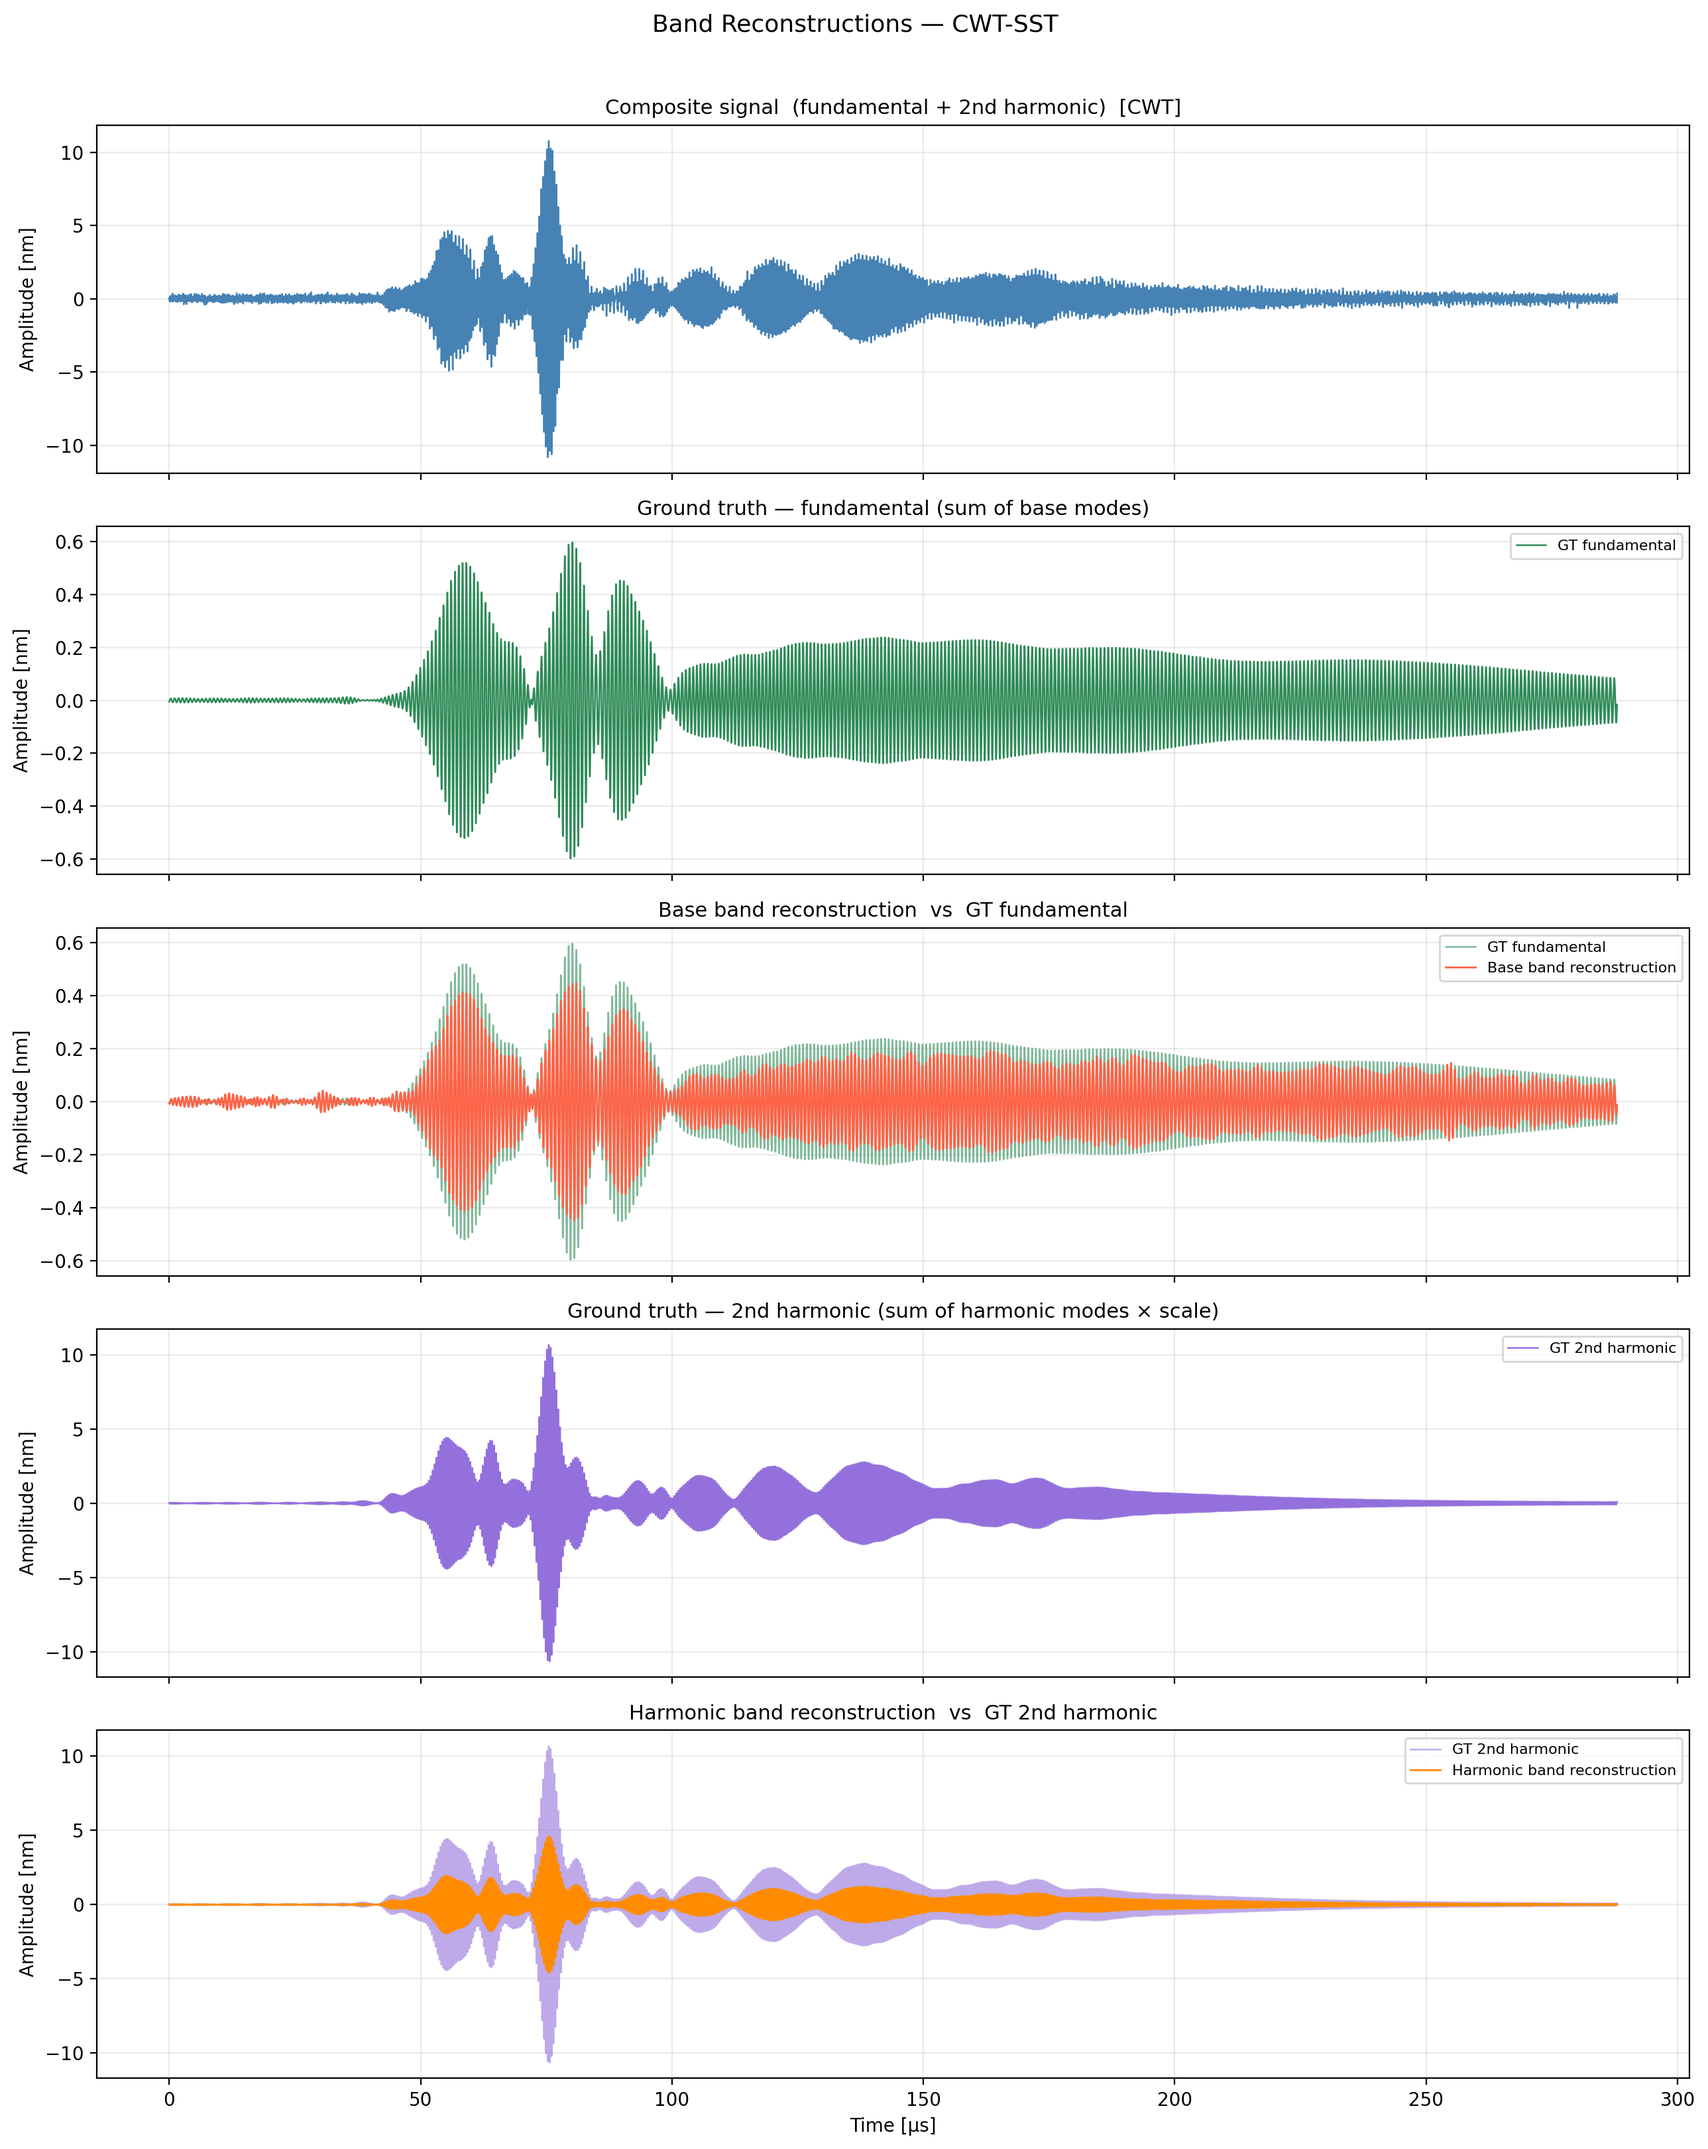
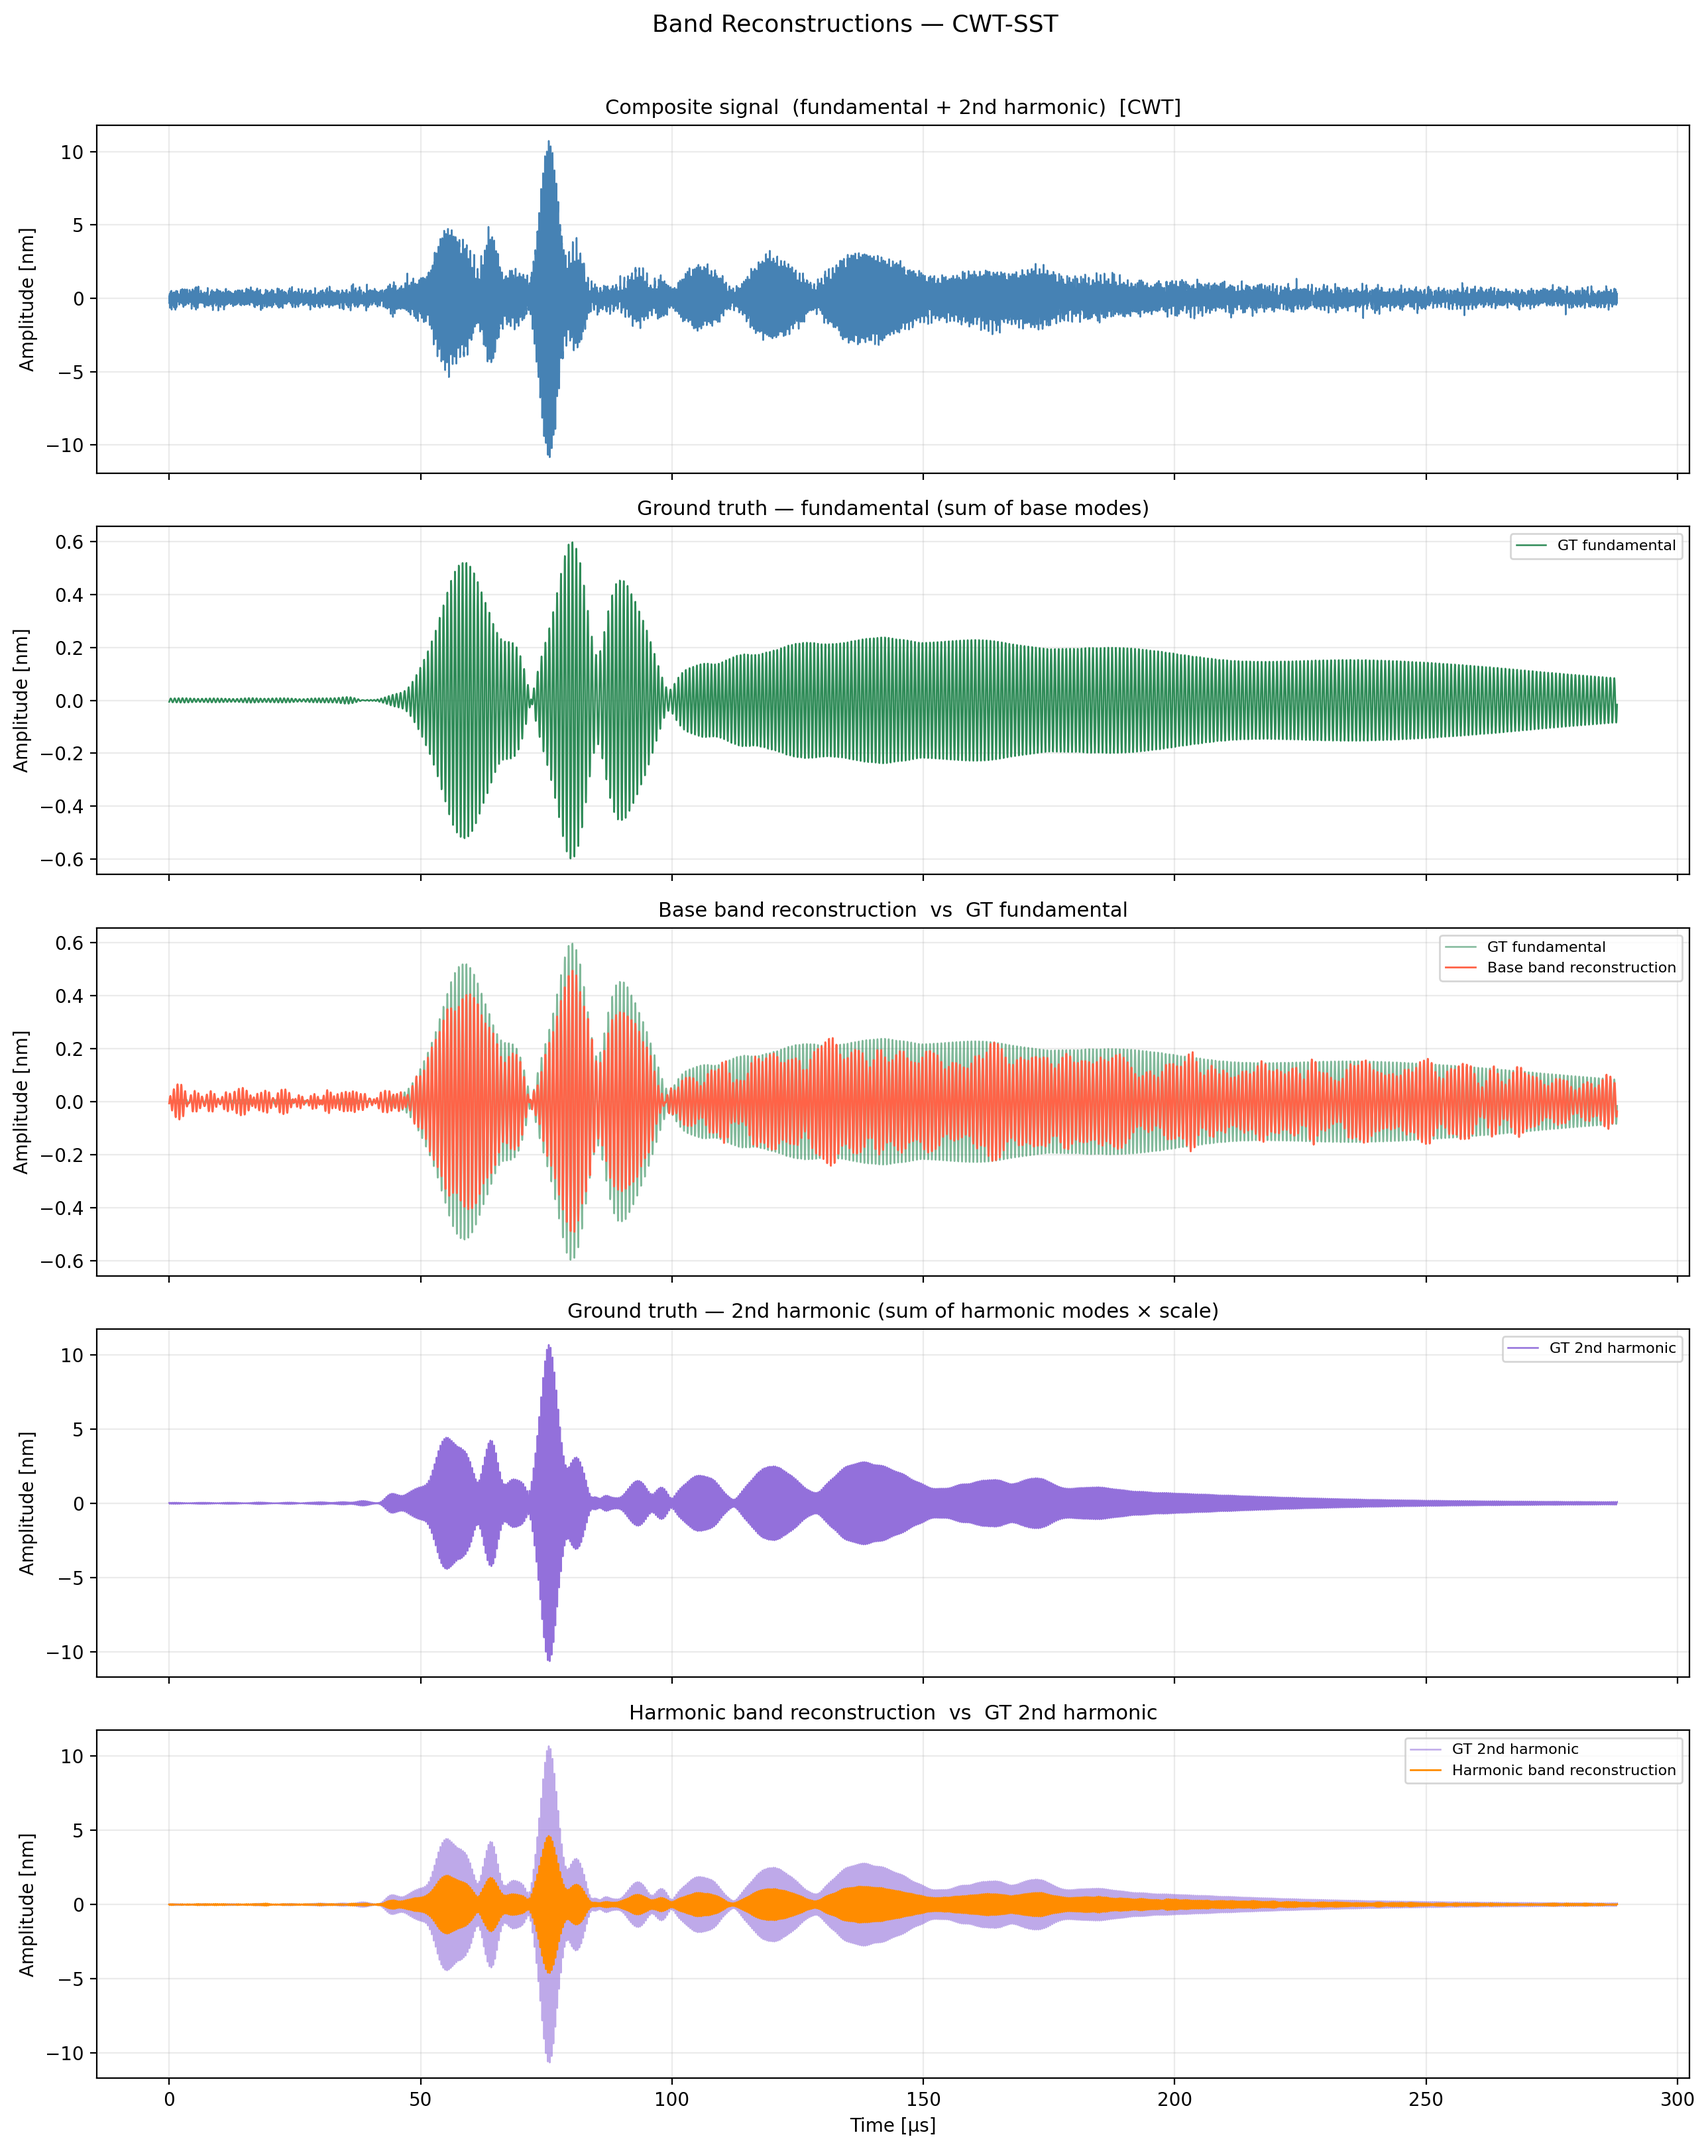
stft_singulary

diff --git a/hyperparameter_stft.py b/hyperparameter_stft.py
@@ -1,0 +1,217 @@
+"""
+═══════════════════════════════════════════════════════════════════════════════
+  test_sst.py  — standalone SST evaluation script
+  ─────────────────────────────────────────────────
+  Run from the project root (same folder as preprocess.py / decomp.py).
+
+  What this script produces
+  ─────────────────────────
+  plots/sst_stft_comparison.png   — STFT original vs SST side-by-side
+  plots/sst_cwt_comparison.png    — CWT  original vs SST side-by-side
+  plots/sst_stft_reconstruction.png — base + harmonic band recon (STFT)
+  plots/sst_cwt_reconstruction.png  — base + harmonic band recon (CWT)
+
+  All parameters are grouped at the top — edit freely.
+═══════════════════════════════════════════════════════════════════════════════
+"""
+
+import numpy as np
+import sys
+import os
+
+# ── make sure the project root is on the path ──────────────────────────────
+sys.path.append(os.path.dirname(os.path.dirname(os.path.abspath(__file__))))
+
+import preprocess
+from transforms import SST_v2_processing          
+
+
+# ═══════════════════════════════════════════════════════════════════════════
+#  USER PARAMETERS  — edit here
+# ═══════════════════════════════════════════════════════════════════════════
+
+# --- signal construction (mirrors despair.py) -------------------------------
+noise_level = 0.2      # 0 = clean, 1.5 = 150% noise
+beta        = 9            # non-linearity parameter
+
+A1_mode = "S2 Propagated signal (nm)"   # base harmonic mode for β
+A2_mode = "S4 Propagated signal (nm)"   # second harmonic mode for β
+
+dataset_base      = "Data/In-plane_TemporalResponse@7.9866MHzmm@200mm.xlsx"
+dataset_harmonic   = "Data/In-plane_A2_TemporalResponse@15.963MHzmm@200mm.xlsx"
+
+modes_base = [
+    "S0 Propagated signal (nm)", "S1 Propagated signal (nm)",
+    "S2 Propagated signal (nm)", "S3 Propagated signal (nm)",
+    "A0 Propagated signal (nm)", "A1 Propagated signal (nm)",
+    "A2 Propagated signal (nm)", "A3 Propagated signal (nm)",
+    "A4 Propagated signal (nm)",
+]
+modes_harmonic = [
+    "S0 Propagated signal (nm)", "S1 Propagated signal (nm)",
+    "S2 Propagated signal (nm)", "S3 Propagated signal (nm)",
+    "S4 Propagated signal (nm)", "S5 Propagated signal (nm)",
+    "S6 Propagated signal (nm)", "S7 Propagated signal (nm)",
+    "S8 Propagated signal (nm)", "A0 Propagated signal (nm)",
+    "A1 Propagated signal (nm)", "A2 Propagated signal (nm)",
+    "A3 Propagated signal (nm)", "A4 Propagated signal (nm)",
+    "A5 Propagated signal (nm)", "A7 Propagated signal (nm)",
+]
+
+# --- time-frequency analysis -----------------------------------------------
+f_min_analyse = 1.0e6      # Hz — lower bound for TF display
+f_max_analyse = 4.5e6      # Hz — upper bound for TF display
+n_freq        = 400        # frequency bins (CWT)
+
+band_min_base      = 1_100_000   # Hz
+band_max_base      = 1_500_000
+band_min_harmonic  = 2_300_000
+band_max_harmonic  = 2_900_000
+
+# --- CWT wavelet -----------------------------------------------------------
+wavelet = "cmor3.0-1.0"
+
+# --- STFT parameters (from blind-decomp stage 1) ---------------------------
+stft_win_len = 128     # samples
+stft_hop_len = 2
+stft_n_fft   = 512
+
+# --- SST thresholds --------------------------------------------------------
+stft_gamma = 1e-6      # STFT bins weaker than this are not reassigned
+cwt_gamma  = 1e-8      # CWT  coefficients weaker than this are not reassigned
+
+# --- plot flags ------------------------------------------------------------
+log_scale = True       # dB colour scale in TF plots
+
+
+# ═══════════════════════════════════════════════════════════════════════════
+#  LOAD & BUILD SIGNAL
+# ═══════════════════════════════════════════════════════════════════════════
+
+print("\n[0] Loading data …")
+data_base      = preprocess.get_data(dataset_base)
+data_harmonic  = preprocess.get_data(dataset_harmonic)
+
+print("[1] Building composite signal …")
+t, signal, second_scale = preprocess.create_signal(
+    data_base, data_harmonic,
+    beta, noise_level,
+    A1_mode, A2_mode,
+    modes_base, modes_harmonic,
+)
+print(f"    samples={len(t)}   t=[{t[0]:.2f}, {t[-1]:.2f}] µs   "
+      f"second_scale={second_scale:.4f}")
+
+# ── Ground truth components (Option A — no changes to preprocess.py) ────────
+# Reconstruct exactly what create_signal summed, but keep the two parts separate.
+# This mirrors the internal logic of preprocess.create_signal.
+
+t_base = data_base["Propagation time (micsec)"].to_numpy()
+t_harm = data_harmonic["Propagation time (micsec)"].to_numpy()
+
+gt_base = np.zeros(len(t))
+for mode in modes_base:
+    gt_base += np.interp(t, t_base, data_base[mode].to_numpy())
+
+gt_harmonic = np.zeros(len(t))
+for mode in modes_harmonic:
+    gt_harmonic += second_scale * np.interp(t, t_harm, data_harmonic[mode].to_numpy())
+
+print(f"    GT base peak    : {np.max(np.abs(gt_base)):.4f} nm")
+print(f"    GT harmonic peak: {np.max(np.abs(gt_harmonic)):.4f} nm")
+
+
+# ═══════════════════════════════════════════════════════════════════════════
+#  STFT-SST
+# ═══════════════════════════════════════════════════════════════════════════
+
+print("\n[2] STFT-SST …")
+S_orig, S_sst, f_stft, t_stft = SST_v2_processing.stft_sst(
+    t, signal,
+    fmin=f_min_analyse,
+    fmax=f_max_analyse,
+    win_len=stft_win_len,
+    hop_len=stft_hop_len,
+    n_fft=stft_n_fft,
+    gamma=stft_gamma,
+)
+print(f"    STFT shape: {S_orig.shape}   SST shape: {S_sst.shape}")
+
+# side-by-side spectrogram comparison
+SST_v2_processing.plot_comparison(
+    t_stft, f_stft,
+    S_orig, S_sst,
+    method="STFT",
+    name="sst_stft_comparison",
+    log_scale=log_scale,
+    fmin=f_min_analyse,
+    fmax=f_max_analyse,
+)
+
+# band reconstructions
+print("    Reconstructing base band (STFT) …")
+recon_base_stft = SST_v2_processing.reconstruct_band_stft(
+    t, signal,
+    band_min=band_min_base,
+    band_max=band_max_base,
+    fmin=f_min_analyse,
+    fmax=f_max_analyse,
+    win_len=stft_win_len,
+    hop_len=stft_hop_len,
+    n_fft=stft_n_fft,
+)
+
+print("    Reconstructing harmonic band (STFT) …")
+recon_harmonic_stft = SST_v2_processing.reconstruct_band_stft(
+    t, signal,
+    band_min=band_min_harmonic,
+    band_max=band_max_harmonic,
+    fmin=f_min_analyse,
+    fmax=f_max_analyse,
+    win_len=stft_win_len,
+    hop_len=stft_hop_len,
+    n_fft=stft_n_fft,
+)
+
+SST_v2_processing.plot_reconstruction(
+    t, signal,
+    recon_base_stft,
+    recon_harmonic_stft,
+    gt_base=gt_base,
+    gt_harmonic=gt_harmonic,
+    method="STFT",
+    name="sst_stft_reconstruction",
+)
+
+
+# --- DEBUG ---
+import pywt as _pywt
+_t = t * 1e-6
+_dt = float(np.mean(np.diff(_t)))
+_fc = _pywt.central_frequency(wavelet)
+_freqs = np.linspace(f_min_analyse, f_max_analyse, n_freq)
+_scales = _fc / (_freqs * _dt)
+_cwtmatr, _freqs_out = _pywt.cwt(signal, _scales, wavelet, sampling_period=_dt)
+
+_mask = (_freqs_out >= band_min_base) & (_freqs_out <= band_max_base)
+print("scales range:", _scales.min(), _scales.max())
+print("band scales:", _scales[_mask].min(), _scales[_mask].max(), "count:", _mask.sum())
+print("d_log_s_full:", np.mean(np.diff(np.log(_scales))))
+print("d_log_s_band:", np.mean(np.diff(np.log(_scales[_mask]))))
+print("gt_base max:", np.abs(gt_base).max())
+# --- END DEBUG ---
+# ═══════════════════════════════════════════════════════════════════════════
+#  QUICK SANITY CHECK  — print peak SNR of reconstructions
+# ═══════════════════════════════════════════════════════════════════════════
+
+def _peak_snr(reference, recon):
+    noise = reference - recon
+    with np.errstate(divide="ignore"):
+        snr = 10 * np.log10(np.var(reference) / (np.var(noise) + 1e-30))
+    return snr
+
+print("\n Reconstruction quality (compared against GT components)")
+print(f"  STFT base band SNR     : {_peak_snr(gt_base,     recon_base_stft):+.1f} dB")
+print(f"  STFT harmonic SNR      : {_peak_snr(gt_harmonic, recon_harmonic_stft):+.1f} dB")
+
+print("\nDone — all plots saved to plots/")
